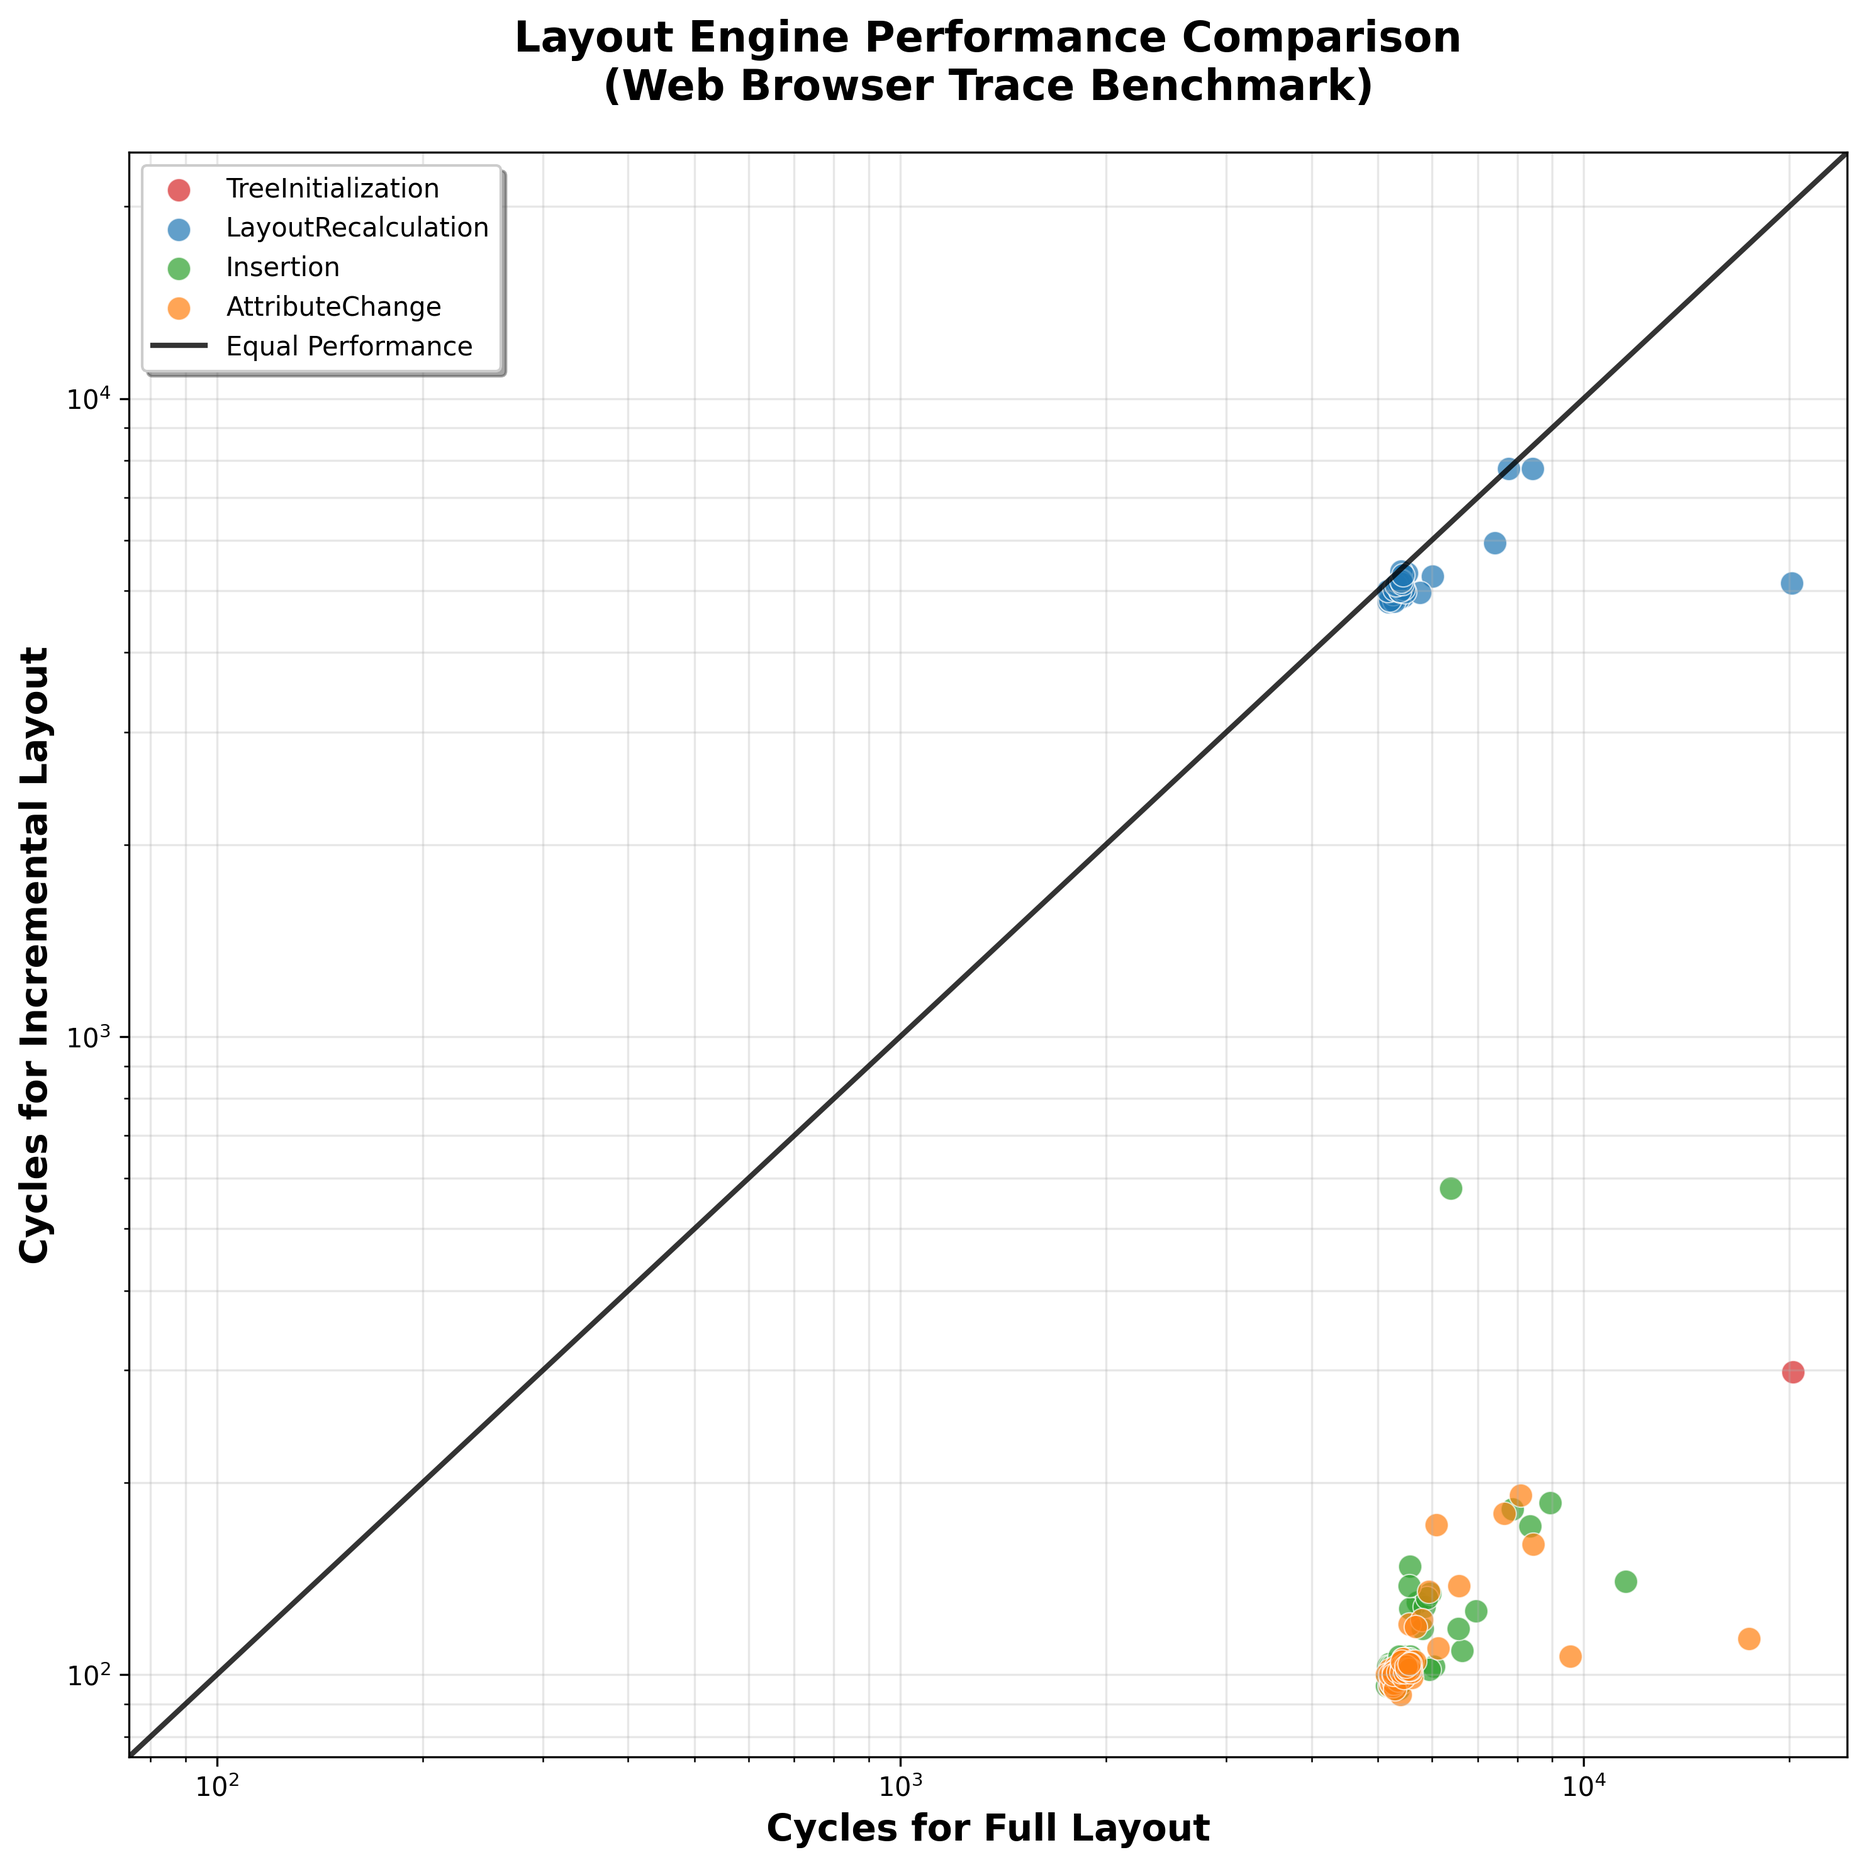
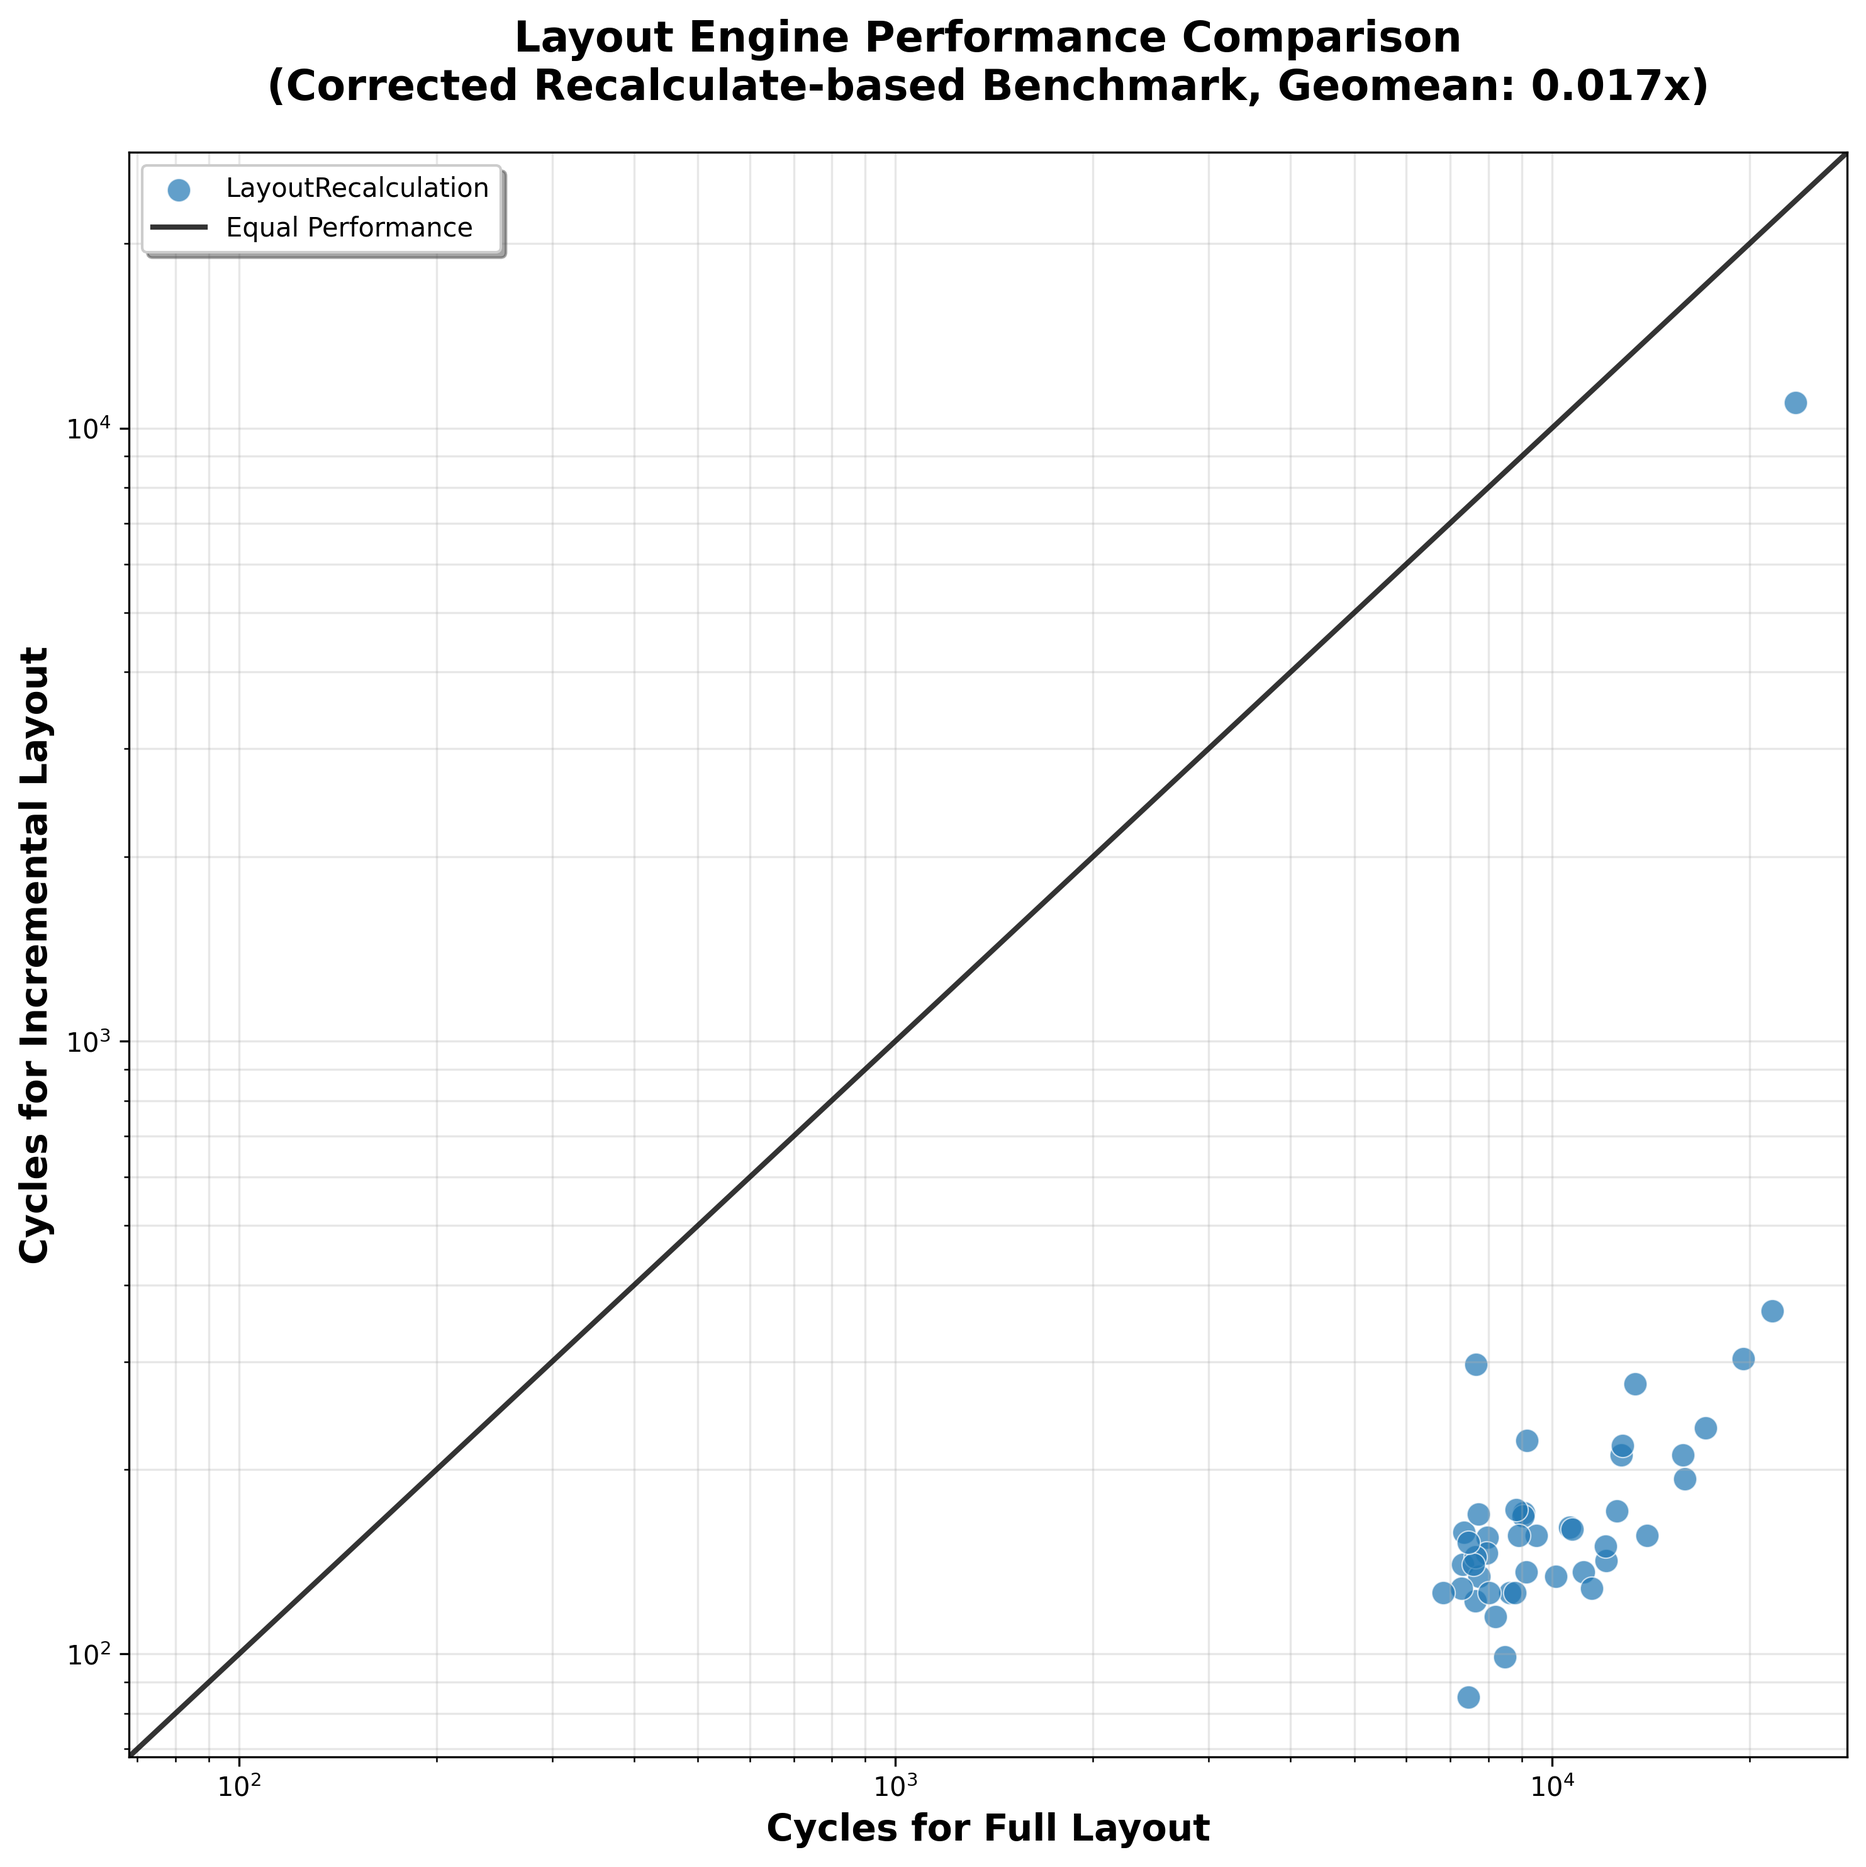
recal (#12)
* recal

* [autofix.ci] apply automated fixes

---------

diff --git a/src/benchmark.rs b/src/benchmark.rs
@@ -290,68 +290,6 @@ fn get_frame_description(frame: &LayoutFrame) -> String {
     }
 }
 
-fn benchmark_layout_frame(initial_tree: &HtmlNode, frame: &LayoutFrame) -> WebLayoutFrameResult {
-    let mut tree_incremental = initial_tree.clone();
-    let mut tree_full_layout = initial_tree.clone();
-
-    // Apply modifications to both trees
-    let nodes_affected = apply_frame_modifications(&mut tree_incremental, frame);
-    apply_frame_modifications(&mut tree_full_layout, frame);
-
-    // WARM-UP PHASE: Establish cached state for incremental processing
-    // This is crucial for realistic incremental performance measurement
-    // Run incremental layout once to populate caches, then clear dirty flags
-    let _ = invoke_incremental_layout(&mut tree_incremental);
-    clear_dirty_flags(&mut tree_incremental);
-
-    // Re-apply modifications to create realistic dirty state
-    apply_frame_modifications(&mut tree_incremental, frame);
-
-    let total_nodes = count_nodes(&tree_incremental);
-
-    // Now measure incremental performance with proper cached state
-    let start_incremental = rdtsc();
-    let (_, cache_hits, cache_misses) = invoke_incremental_layout(&mut tree_incremental);
-    let end_incremental = rdtsc();
-    let incremental_cycles = end_incremental - start_incremental;
-
-    // For full layout comparison, clear caches and mark all dirty
-    clear_all_layout_cache(&mut tree_full_layout);
-    mark_all_dirty_for_layout(&mut tree_full_layout);
-
-    let start_full = rdtsc();
-    let _ = invoke_full_layout(&mut tree_full_layout);
-    let end_full = rdtsc();
-    let full_layout_cycles = end_full - start_full;
-
-    // Correctness check: ensure both layout methods produce the same result
-    assert!(
-        tree_incremental.compare_css_matches(&tree_full_layout),
-        "Mismatch between incremental and full layout results for frame {}",
-        frame.frame_id
-    );
-
-    let speedup = if full_layout_cycles > 0 {
-        incremental_cycles as f64 / full_layout_cycles as f64
-    } else {
-        1.0
-    };
-
-    WebLayoutFrameResult {
-        frame_id: frame.frame_id,
-        operation_type: frame.command_name.clone(),
-        frame_description: get_frame_description(frame),
-        nodes_affected,
-        total_nodes,
-        incremental_cycles,
-        full_layout_cycles,
-        speedup,
-        incremental_cache_hits: cache_hits,
-        incremental_cache_misses: cache_misses,
-        modification_type: frame.modification_type.clone(),
-    }
-}
-
 fn invoke_incremental_layout(tree: &mut HtmlNode) -> (usize, usize, usize) {
     // Use the generated incremental CSS processing code for realistic benchmarks
     process_tree_incremental_with_stats(tree)
@@ -383,16 +321,19 @@ fn clear_dirty_flags(node: &mut HtmlNode) {
 
 pub fn run_web_browser_layout_trace_benchmark() -> Vec<WebLayoutFrameResult> {
     println!("🌐 Starting Web Browser Layout Trace Benchmark");
-    println!("📊 Simulating Ladybird-style layout trace methodology...");
+    println!("📊 Simulating corrected layout methodology...");
     println!("Loading layout trace from css-gen-op/command.json...");
 
     let frames = parse_web_layout_trace("css-gen-op/command.json");
-    println!("🎬 Found {} layout frames to benchmark", frames.len());
-    println!(
-        "📈 Each frame represents one data point (like Ladybird's 2216 frames from 50 websites)"
-    );
+    println!("🎬 Found {} layout frames to process", frames.len());
+    println!("📈 Only recalculate operations create data points");
 
     let mut current_layout_tree = HtmlNode::new("html");
+    let mut pending_modifications = Vec::new();
+    let mut results = Vec::new();
+    let mut data_point_counter = 0;
+
+    // Initialize tree with first init command if present
     if let Some(init_frame) = frames.first() {
         if init_frame.command_name == "init" {
             apply_frame_modifications(&mut current_layout_tree, init_frame);
@@ -403,8 +344,6 @@ pub fn run_web_browser_layout_trace_benchmark() -> Vec<WebLayoutFrameResult> {
         }
     }
 
-    let mut results = Vec::new();
-
     for (i, frame) in frames.iter().enumerate() {
         println!(
             "🎬 Processing frame {}/{}: {} ({})",
@@ -414,21 +353,71 @@ pub fn run_web_browser_layout_trace_benchmark() -> Vec<WebLayoutFrameResult> {
             get_frame_description(frame)
         );
 
-        let result = benchmark_layout_frame(&current_layout_tree, frame);
+        match frame.command_name.as_str() {
+            "init" => {
+                // Already handled above
+                if i > 0 {
+                    apply_frame_modifications(&mut current_layout_tree, frame);
+                }
+            }
+            "recalculate" => {
+                // This is when we actually benchmark!
+                data_point_counter += 1;
+                println!(
+                    "  🔄 RECALCULATE - Creating data point #{}",
+                    data_point_counter
+                );
 
-        println!(
-            "  📊 Incremental: {} cycles, Full: {} cycles, Speedup: {:.3}x, Cache hits: {}/{}",
-            result.incremental_cycles,
-            result.full_layout_cycles,
-            result.speedup,
-            result.incremental_cache_hits,
-            result.incremental_cache_hits + result.incremental_cache_misses
-        );
+                // First apply all pending modifications
+                let mut total_nodes_affected = 0;
+                for pending_frame in &pending_modifications {
+                    let affected =
+                        apply_frame_modifications(&mut current_layout_tree, pending_frame);
+                    total_nodes_affected += affected;
+                    println!(
+                        "    ↳ Applied pending: {} (affected {} nodes)",
+                        pending_frame.command_name, affected
+                    );
+                }
 
-        results.push(result);
+                // Now benchmark this accumulated state
+                let result = benchmark_accumulated_modifications(
+                    &current_layout_tree,
+                    &pending_modifications,
+                    frame,
+                    data_point_counter,
+                );
 
-        apply_frame_modifications(&mut current_layout_tree, frame);
+                println!(
+                    "  📊 Data point #{}: Incremental {} cycles, Full {} cycles, Speedup {:.3}x",
+                    data_point_counter,
+                    result.incremental_cycles,
+                    result.full_layout_cycles,
+                    result.speedup
+                );
+
+                results.push(result);
+
+                // Clear pending modifications after recalculate
+                pending_modifications.clear();
+            }
+            _ => {
+                // Other operations (add, replace_value, etc.) - just mark for later
+                println!(
+                    "  📝 Marking for recalculate: {} ({})",
+                    frame.command_name,
+                    get_frame_description(frame)
+                );
+                pending_modifications.push(frame.clone());
+            }
+        }
     }
+
+    println!(
+        "\n🎯 Benchmark completed with {} data points from {} total frames",
+        results.len(),
+        frames.len()
+    );
 
     print_web_layout_trace_summary(&results);
 
@@ -442,9 +431,105 @@ pub fn run_web_browser_layout_trace_benchmark() -> Vec<WebLayoutFrameResult> {
     results
 }
 
+fn benchmark_accumulated_modifications(
+    base_tree: &HtmlNode,
+    pending_modifications: &[LayoutFrame],
+    recalculate_frame: &LayoutFrame,
+    data_point_id: usize,
+) -> WebLayoutFrameResult {
+    // Create trees for benchmarking
+    let mut tree_incremental = base_tree.clone();
+    let mut tree_full_layout = base_tree.clone();
+
+    // Apply accumulated modifications to both trees
+    let mut total_nodes_affected = 0;
+    for modification in pending_modifications {
+        total_nodes_affected += apply_frame_modifications(&mut tree_incremental, modification);
+        apply_frame_modifications(&mut tree_full_layout, modification);
+    }
+
+    let total_nodes = count_nodes(&tree_incremental);
+
+    // WARM-UP PHASE for incremental layout
+    let _ = invoke_incremental_layout(&mut tree_incremental);
+    clear_dirty_flags(&mut tree_incremental);
+
+    // Re-apply modifications to create proper dirty state
+    for modification in pending_modifications {
+        apply_frame_modifications(&mut tree_incremental, modification);
+    }
+
+    // Measure incremental layout performance
+    let start_incremental = rdtsc();
+    let (_, cache_hits, cache_misses) = invoke_incremental_layout(&mut tree_incremental);
+    let end_incremental = rdtsc();
+    let incremental_cycles = end_incremental - start_incremental;
+
+    // Prepare full layout tree
+    clear_all_layout_cache(&mut tree_full_layout);
+    mark_all_dirty_for_layout(&mut tree_full_layout);
+
+    // Measure full layout performance
+    let start_full = rdtsc();
+    let _ = invoke_full_layout(&mut tree_full_layout);
+    let end_full = rdtsc();
+    let full_layout_cycles = end_full - start_full;
+
+    // Correctness check
+    assert!(
+        tree_incremental.compare_css_matches(&tree_full_layout),
+        "Mismatch between incremental and full layout results for data point {}",
+        data_point_id
+    );
+
+    let speedup = if full_layout_cycles > 0 {
+        incremental_cycles as f64 / full_layout_cycles as f64
+    } else {
+        1.0
+    };
+
+    // Create summary description of accumulated modifications
+    let accumulated_description = if pending_modifications.is_empty() {
+        "recalculate (no pending changes)".to_string()
+    } else {
+        let ops: Vec<String> = pending_modifications
+            .iter()
+            .map(|f| f.command_name.clone())
+            .collect();
+        format!("recalculate after [{}]", ops.join(", "))
+    };
+
+    WebLayoutFrameResult {
+        frame_id: data_point_id,
+        operation_type: "recalculate".to_string(),
+        frame_description: accumulated_description,
+        nodes_affected: total_nodes_affected,
+        total_nodes,
+        incremental_cycles,
+        full_layout_cycles,
+        speedup,
+        incremental_cache_hits: cache_hits,
+        incremental_cache_misses: cache_misses,
+        modification_type: ModificationType::LayoutRecalculation,
+    }
+}
+
 fn print_web_layout_trace_summary(results: &[WebLayoutFrameResult]) {
     let total_frames = results.len();
     let avg_speedup = results.iter().map(|r| r.speedup).sum::<f64>() / total_frames as f64;
+
+    // Calculate geometric mean of speedup ratios
+    let geometric_mean_speedup = if total_frames > 0 {
+        let product: f64 = results
+            .iter()
+            .map(|r| r.speedup)
+            .filter(|&x| x > 0.0) // Avoid log(0)
+            .map(|x| x.ln())
+            .sum();
+        (product / total_frames as f64).exp()
+    } else {
+        1.0
+    };
 
     let insertions = results
         .iter()
@@ -487,8 +572,9 @@ fn print_web_layout_trace_summary(results: &[WebLayoutFrameResult]) {
 
     println!("\n🌐 Web Browser Layout Trace Benchmark Summary:");
     println!("════════════════════════════════════════════════");
-    println!("Total layout frames analyzed: {}", total_frames);
+    println!("Total recalculate data points: {}", total_frames);
     println!("Average speedup (incremental/full): {:.3}x", avg_speedup);
+    println!("Geometric mean speedup: {:.3}x", geometric_mean_speedup);
 
     println!("\n📊 Frame Types (like real web browsing):");
     println!(

diff --git a/create_performance_comparison_plot.py b/create_performance_comparison_plot.py
@@ -37,10 +37,14 @@ def main():
     plt.xscale('log')
     plt.yscale('log')
     
+    # Calculate geometric mean for display
+    positive_speedups = df[df['speedup'] > 0]['speedup']
+    geometric_mean_speedup = np.exp(np.log(positive_speedups).mean()) if len(positive_speedups) > 0 else 1.0
+    
     # Set labels and title
     plt.xlabel('Cycles for Full Layout', fontsize=14, fontweight='bold')
     plt.ylabel('Cycles for Incremental Layout', fontsize=14, fontweight='bold')
-    plt.title('Layout Engine Performance Comparison\n(Web Browser Trace Benchmark)', 
+    plt.title(f'Layout Engine Performance Comparison\n(Corrected Recalculate-based Benchmark, Geomean: {geometric_mean_speedup:.3f}x)', 
               fontsize=16, fontweight='bold', pad=20)
     
     # Add grid
@@ -81,8 +85,13 @@ def main():
     avg_speedup = df['speedup'].mean()
     median_speedup = df['speedup'].median()
     
+    # Calculate geometric mean
+    positive_speedups = df[df['speedup'] > 0]['speedup']
+    geometric_mean_speedup = np.exp(np.log(positive_speedups).mean()) if len(positive_speedups) > 0 else 1.0
+    
     print(f'\n⚡ Average performance ratio: {avg_speedup:.3f}x')
     print(f'📊 Median performance ratio: {median_speedup:.3f}x')
+    print(f'📈 Geometric mean performance ratio: {geometric_mean_speedup:.3f}x')
     
     # Range analysis
     min_full = df['full_layout_cycles'].min()
